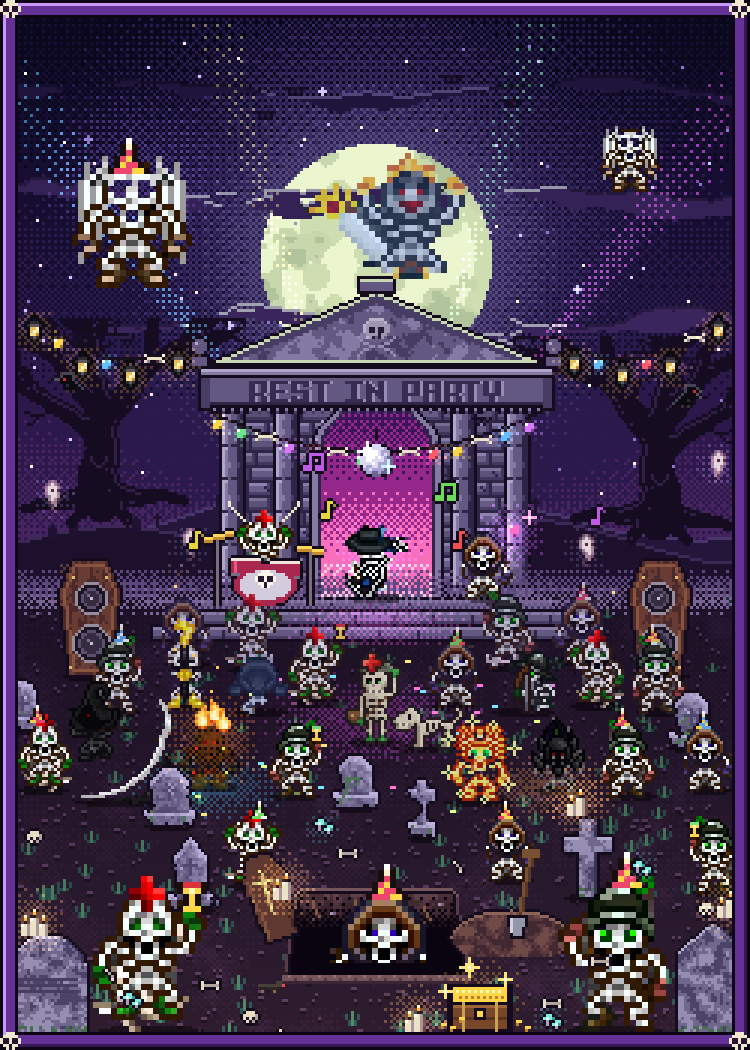
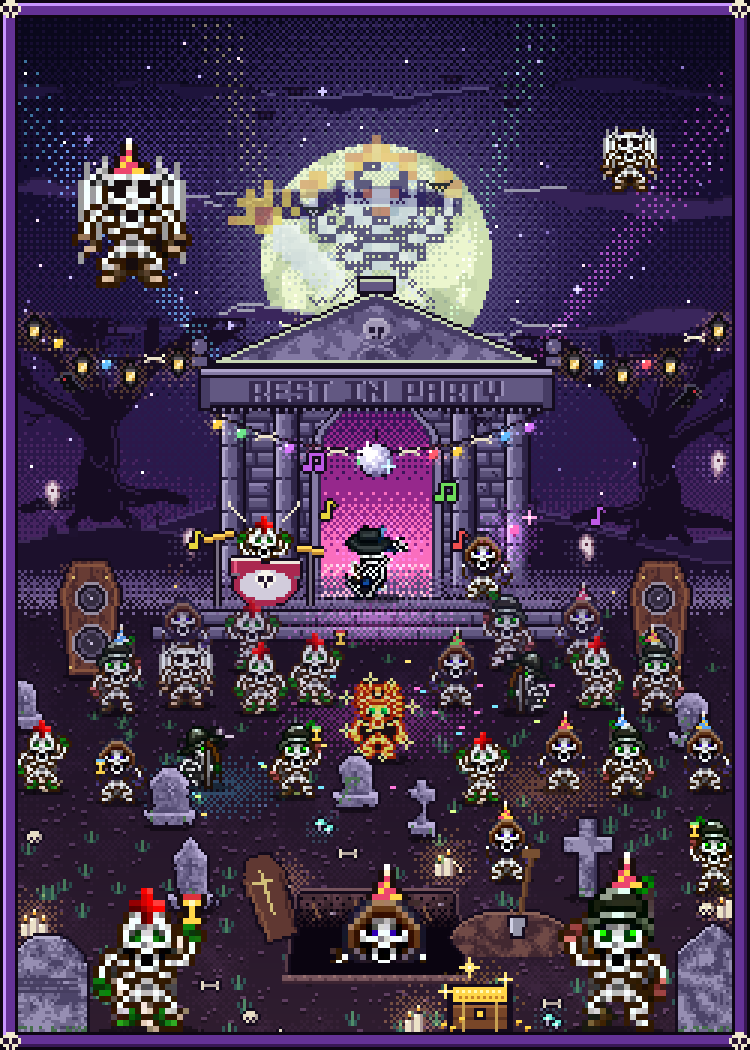
Rest in Party: nur echte Skelett-Karten, Skullmael als Geist mittig, Pixelfehler behoben
Claude-Session: https://claude.ai/code/session_01QU6zaF1CRhUbwqrjdbxehJ

diff --git a/scripts/sleeve-entwuerfe/s10_party.py b/scripts/sleeve-entwuerfe/s10_party.py
@@ -196,6 +196,44 @@ im = beam(im, 112, 150, -16, 3, 170, (90, 90, 30), 0.35)
 im = beam(im, 138, 150, 16, 3, 170, (40, 100, 50), 0.35)
 
 # =====================================================================
+# 3b) Skeleton King Skullmael als Geistererscheinung vor dem Mond (3x)
+# =====================================================================
+ksrc, kstr = SK.king_ghost_src()
+KS = 3
+ka = np.array(up(ksrc, KS)).astype(float)
+ks = np.kron(kstr, np.ones((KS, KS)))
+kh, kw = ks.shape
+# Gesichtsmitte: Schwerpunkt der obersten Kronen-/Schädelzeilen
+al = np.array(ksrc)[..., 3] > 0
+rows_ = np.where(al.any(1))[0]
+top_rows = al[rows_[0]:rows_[0] + 6]
+fx = np.where(top_rows.any(0))[0].mean()
+KX = int(round(CX - (fx + 0.5) * KS))
+KY = 108 - kh
+# Geisterfarbe: blass mondgrün, Gold/Rot der Krone gedämpft erhalten
+lum = ka[..., :3].mean(2, keepdims=True) / 255
+ghost = np.concatenate([120 + lum * 130, 150 + lum * 105, 190 + lum * 65], -1)
+warm = (ka[..., 0] - ka[..., 2] > 50)[..., None]
+ghost = np.where(warm, ka[..., :3] * 0.6 + np.array((255, 230, 150)) * 0.4, ghost)
+dark = (lum < 0.25)
+ghost = np.where(dark, np.array((46, 40, 100)), ghost)
+yk = np.mgrid[0:kh, 0:kw][0]
+fade = np.clip((kh - 2 - yk) / 16, 0, 1)
+alpha_t = np.where(ks > 0.2, 0.4 + 0.55 * ks, 0) * fade * (ka[..., 3] > 0)
+kmask = np.zeros((H, W), float)
+y0c, x0c = max(0, KY), max(0, KX)
+kmask[y0c:KY + kh, x0c:KX + kw] = alpha_t[y0c - KY:, x0c - KX:][:H - y0c, :W - x0c]
+gcol = np.zeros((H, W, 3))
+gcol[y0c:KY + kh, x0c:KX + kw] = ghost[y0c - KY:, x0c - KX:][:H - y0c, :W - x0c]
+# weicher Geister-Schein
+gl_ = np.array(Image.fromarray((np.clip(kmask, 0, 1) * 255).astype(np.uint8)).filter(ImageFilter.GaussianBlur(4))).astype(float) / 255
+im = blend_mask(im, dither_mask(None, np.clip(gl_ * 0.9 - kmask, 0, 0.5)) & (kmask == 0), (120, 150, 150), 0.35)
+m = dither_mask(None, kmask)
+a = np.array(im)
+a[m, :3] = (a[m, :3] * 0.25 + gcol[m] * 0.75).astype(np.uint8)
+im = Image.fromarray(a)
+
+# =====================================================================
 # 4) Gruft-Bühne
 # =====================================================================
 ST = dict(hl=(176, 166, 204), li=(132, 122, 164), mi=(98, 88, 130), da=(70, 60, 100), de=(46, 36, 70), ol=(20, 12, 30))
@@ -617,9 +655,6 @@ for (x, y, col, kind) in [(106, 166, (230, 214, 60), 0), (144, 160, (110, 220, 9
     rows = NOTE1 if kind == 0 else NOTE2
     nimg = rows_img(rows, {'A': col, 'B': tuple(int(v * 0.7) for v in col)})
     im.alpha_composite(nimg, (x, y))
-# König Skullmael (Karte) auf der Giebelspitze
-KING = up(SK.king(), 2)
-put(im, KING, CX + 4, PY - 3)
 im.save(os.path.join(TMP, 'p10_e.png'))
 print('stage ok')
 
@@ -699,8 +734,8 @@ for (x, y, spr) in row0:
     add(SK.tint_depth(spr, 0.34), x, y)
 row1 = [
     (38, 238, hat(ARup, BLUE, WHITE)),
-    (62, 236, SK.priest()),
-    (86, 238, SK.necromancer()),
+    (62, 236, WING.transpose(Image.FLIP_LEFT_RIGHT)),
+    (86, 238, HE.transpose(Image.FLIP_LEFT_RIGHT)),
     (106, 235, HEcup),
     (150, 236, hat(MA, GREEN, RED)),
     (174, 238, SK.archer_card().transpose(Image.FLIP_LEFT_RIGHT)),
@@ -709,49 +744,56 @@ row1 = [
 ]
 for (x, y, spr) in row1:
     add(SK.tint_depth(spr, 0.2), x, y)
-# Heiler-Sprite aus der Knochenmühle (1x) + Skeletthund
-hs = area('bonegrinder/healer')
-healer_fr = [hs.crop((i * 21, 0, i * 21 + 21, 32)) for i in range(3)]
-healer_fr = [f.crop(f.getbbox()) for f in healer_fr]
-add(SK.tint_depth(healer_fr[2], 0.12), 124, 248)
-dog = area('bonegrinder/dog').crop((0, 0, 25, 17)); dog = dog.crop(dog.getbbox())
-add(SK.tint_depth(dog, 0.12), 142, 250)
+# Treasure Skeleton in der Mitte der Tanzfläche
+TRE = SK.treasure()
+add(SK.tint_depth(TRE, 0.08), 126, 254)
 # Reihe 2
-BURN = SK.burning()
+MAcup = SK.trim(SK.cup(SK.canvas(MA.transpose(Image.FLIP_LEFT_RIGHT), 6, 3)[0], 4, 18, (120, 200, 255)))
 row2 = [
-    (14, 264, hat(HE, PINK, GOLDC, dx=3, dy=3).transpose(Image.FLIP_LEFT_RIGHT)),
-    (40, 268, SK.reaper()),
-    (70, 263, BURN),
+    (14, 264, HEup),
+    (40, 268, MAcup),
+    (68, 263, SK.archer_card()),
     (98, 266, ARcup),
-    (160, 268, SK.treasure()),
-    (186, 264, SK.death_knight()),
-    (210, 266, hat(AR.transpose(Image.FLIP_LEFT_RIGHT), PINK, GOLDC)),
+    (160, 268, HEboth.transpose(Image.FLIP_LEFT_RIGHT)),
+    (186, 264, hat(MA, PINK, GOLDC)),
+    (210, 266, hat(AR.transpose(Image.FLIP_LEFT_RIGHT), BLUE, WHITE)),
     (236, 264, hat(MA, BLUE, GOLDC).transpose(Image.FLIP_LEFT_RIGHT)),
 ]
 for (x, y, spr) in row2:
     add(SK.tint_depth(spr, 0.06), x, y)
 # Reihe 3 (vorne, zwischen den Stars)
-row3 = [(84, 296, hat(HEboth, GREEN, WHITE, dx=3, dy=3)), (170, 294, hat(MA, GOLDC, PINK).transpose(Image.FLIP_LEFT_RIGHT)), (238, 298, ARcup.transpose(Image.FLIP_LEFT_RIGHT))]
+row3 = [(170, 294, hat(MA, GOLDC, PINK).transpose(Image.FLIP_LEFT_RIGHT)), (238, 298, ARcup.transpose(Image.FLIP_LEFT_RIGHT))]
 for (x, y, spr) in row3:
     add(spr, x, y)
 # Grabsteine zwischen den Tänzern
 for (x, y, k) in [(8, 244, 0), (118, 270, 2), (230, 250, 3), (56, 276, 5), (140, 280, 1)]:
     add(STONES[k], x, y)
 
+# Boden-Kleinkram: Knochen, Schädel, Leuchtpilze, Ratte
+BONEC = {'1': (230, 220, 196), '2': (176, 162, 156), 'k': (40, 24, 46)}
+small_skull = rows_img([".111.", "11112", "1k1k2", ".1k2."], BONEC)
+small_bone = rows_img(["1....1", "122222", "1....1"], BONEC)
+small_bone2 = rows_img(["1..", ".2.", "..2", "..1"], BONEC)
+for (spr, x, y) in [(small_skull, 80, 336), (small_bone, 66, 326), (small_bone2, 92, 342), (small_bone, 180, 332), (small_skull, 232, 300),
+                    (small_bone2, 150, 286), (small_bone, 112, 282), (small_skull, 8, 276), (small_bone, 196, 318), (small_bone2, 34, 322)]:
+    im.alpha_composite(spr, (x, y))
+MUSH = {'c': (120, 240, 220), 'C': (60, 150, 160), 'w': (230, 255, 250), 's': (170, 160, 190)}
+mush = rows_img([".cc...", "cwcC..", ".s..cc", ".s.cwC", "....s."], MUSH)
+for (x, y) in [(40, 330), (104, 272), (180, 344 - 7)]:
+    im = add_light(im, x + 3, y + 3, 7, (10, 40, 40), 0.8)
+    im.alpha_composite(mush, (x, y))
+
+# Kerzen-Gruppen mit Lichtschein
+for (x, y, n) in [(8, 312, 3), (12, 346 - 36, 0), (92, 300, 2), (146, 292, 2), (240, 306, 3), (136, 344, 2)]:
+    if n == 0:
+        continue
+    im = add_light(im, x + n, y - 5, 12, (70, 50, 20), 1.0)
+    for k in range(n):
+        c = candle(3 + (k * 2) % 4)
+        put(im, c, x + k * 3, y)
 crowd.sort(key=lambda t: t[0])
 for (y, x, spr) in crowd:
     put(im, spr, x, y, shd=True)
-# Flammen-Sprite (Knochenmühle) auf dem brennenden Skelett + Funken
-fl = area('bonegrinder/flame')
-flames = [fl.crop((i * 5, 0, i * 5 + 5, 8)) for i in range(4)]
-bx_, by_ = 70, 263 - BURN.height
-im = add_light(im, 70, 246, 18, (70, 36, 0), 1.0)
-im.alpha_composite(up(flames[1], 1), (bx_ - 5, by_ - 5))
-im.alpha_composite(flames[2], (bx_ - 1, by_ - 7))
-im.alpha_composite(flames[3], (bx_ + 2, by_ - 4))
-d = ImageDraw.Draw(im)
-for (x, y) in [(60, 226), (72, 222), (64, 218), (70, 230), (58, 216)]:
-    d.point((x, y), fill=(255, 200, 80))
 im.save(os.path.join(TMP, 'p10_f.png'))
 print('crowd ok')
 
@@ -854,22 +896,6 @@ fg.sort(key=lambda t: t[0])
 for (y, x, spr) in fg:
     put(im, spr, x, y, shd=True)
 
-# Boden-Kleinkram: Knochen, Schädel, Leuchtpilze, Ratte
-BONEC = {'1': (230, 220, 196), '2': (176, 162, 156), 'k': (40, 24, 46)}
-small_skull = rows_img([".111.", "11112", "1k1k2", ".1k2."], BONEC)
-small_bone = rows_img(["1....1", "122222", "1....1"], BONEC)
-small_bone2 = rows_img(["1..", ".2.", "..2", "..1"], BONEC)
-for (spr, x, y) in [(small_skull, 80, 336), (small_bone, 66, 326), (small_bone2, 92, 342), (small_bone, 180, 332), (small_skull, 232, 300),
-                    (small_bone2, 150, 286), (small_bone, 112, 282), (small_skull, 8, 276), (small_bone, 196, 318), (small_bone2, 34, 322)]:
-    im.alpha_composite(spr, (x, y))
-MUSH = {'c': (120, 240, 220), 'C': (60, 150, 160), 'w': (230, 255, 250), 's': (170, 160, 190)}
-mush = rows_img([".cc...", "cwcC..", ".s..cc", ".s.cwC", "....s."], MUSH)
-for (x, y) in [(40, 330), (210, 286), (104, 272), (180, 344 - 7)]:
-    im = add_light(im, x + 3, y + 3, 7, (10, 40, 40), 0.8)
-    im.alpha_composite(mush, (x, y))
-rat = area('bonegrinder/rat').crop((0, 0, 9, 4)); rat = rat.crop(rat.getbbox())
-im.alpha_composite(rat, (86, 327))
-
 # Schatztruhe
 chest = Image.new('RGBA', (22, 16), (0, 0, 0, 0))
 cdd = ImageDraw.Draw(chest)
@@ -889,14 +915,6 @@ for (x, y) in [(147, 341), (150, 342), (172, 340), (175, 342), (153, 339)]:
 for (x, y, s_) in [(156, 322, 3), (168, 326, 2), (148, 330, 2)]:
     sparkle(d, x, y, s_, (255, 230, 120))
 
-# Kerzen-Gruppen mit Lichtschein
-for (x, y, n) in [(8, 312, 3), (12, 346 - 36, 0), (92, 300, 2), (190, 272, 2), (240, 306, 3), (136, 344, 2)]:
-    if n == 0:
-        continue
-    im = add_light(im, x + n, y - 5, 12, (70, 50, 20), 1.0)
-    for k in range(n):
-        c = candle(3 + (k * 2) % 4)
-        put(im, c, x + k * 3, y)
 im.save(os.path.join(TMP, 'p10_g.png'))
 print('fg ok')
 

diff --git a/scripts/sleeve-entwuerfe/skel_sprites.py b/scripts/sleeve-entwuerfe/skel_sprites.py
@@ -15,17 +15,30 @@ def minions():
             return _bg(a) | (redglow if i == 2 else False)
         s = keep_largest(cut_by(nv, box, bgf))
         s = s.crop(s.getbbox())
+        if i == 0:  # lose Stock-/Bodenpixel unten links entfernen
+            a = np.array(s); a[20:, :3, 3] = 0; a[23:, :9, 3] = 0; s = Image.fromarray(a); s = s.crop(s.getbbox())
         if i == 1:  # Hintergrundreste rechts oben entfernen
             a = np.array(s); a[:10, 16:, 3] = 0; s = Image.fromarray(a); s = s.crop(s.getbbox())
-        out.append(s)
+        out.append(clean(fill_dark(s)))
     return out
 
 
 def bard():
+    return _unpurple(_bard())
+
+
+def _bard():
     nb = native('Skeleton Bard')
     # Körper per Umriss-Barriere, Hut + Feder + Lautenhals ergänzt
-    return _fcut(nb, (26, 16, 52, 48), _notblack(12), add=[(35, 22, 41, 26), (32, 25, 45, 30), (31, 26, 32, 29), (41, 21, 43, 25), (45, 25, 51, 30)],
-                 rem=[(49, 26, 51, 27)])
+    return fill_dark(_fcut(nb, (26, 16, 52, 48), _notblack(12), add=[(35, 22, 41, 26), (32, 25, 45, 30), (31, 26, 32, 29), (41, 21, 43, 25), (45, 25, 51, 30)],
+                 rem=[(49, 26, 51, 27)], extra=None))
+
+
+def _unpurple(spr):
+    a = np.array(spr).astype(int)
+    purple = (a[..., 2] > a[..., 1] + 30) & (a[..., 0] > a[..., 1] + 10)
+    a[purple, 3] = 0
+    return clean(Image.fromarray(a.astype(np.uint8)))
 
 
 def king():
@@ -121,7 +134,7 @@ def _auto(nv, box, tol=40):
 
 
 def winged():
-    return _auto(native('Winged Skeleton'), (24, 6, 52, 36), 40)
+    return fill_dark(_auto(native('Winged Skeleton'), (24, 6, 52, 36), 40))
 
 
 def burning():
@@ -129,11 +142,11 @@ def burning():
 
 
 def priest():
-    return _auto(native('Skeleton Priest'), (28, 10, 48, 50), 50)
+    return fill_dark(_auto(native('Skeleton Priest'), (28, 10, 48, 50), 50))
 
 
 def treasure():
-    return _auto(native('Treasure Skeleton'), (22, 6, 54, 44), 50)
+    return fill_dark(_auto(native('Treasure Skeleton'), (22, 6, 54, 44), 50))
 
 
 def necromancer():
@@ -145,7 +158,7 @@ def death_knight():
 
 
 def archer_card():
-    return _fcut(native('Skeleton Archer'), (14, 6, 44, 36), _notblack(20), rem=[(33, 21, 44, 26)])
+    return clean(fill_dark(_fcut(native('Skeleton Archer'), (14, 6, 44, 36), _notblack(20), rem=[(33, 18, 44, 26), (36, 6, 44, 14)])))
 
 
 def reaper():
@@ -251,3 +264,37 @@ def tint_depth(spr, amt, col=(60, 40, 100)):
 def trim(spr):
     bb = spr.getbbox()
     return spr.crop(bb) if bb else spr
+
+
+def fill_dark(spr, col=(22, 12, 14, 255)):
+    """Eingeschlossene transparente Löcher (Augen, Rippenlücken) dunkel füllen."""
+    a = np.array(spr)
+    m = a[..., 3] > 0
+    holes = ndimage.binary_fill_holes(m) & ~m
+    a[holes] = col
+    return Image.fromarray(a)
+
+
+def clean(spr, min_size=3):
+    """Kleine abgetrennte Pixelinseln entfernen (4er-Nachbarschaft)."""
+    a = np.array(spr)
+    m = a[..., 3] > 0
+    lab, k = ndimage.label(m)
+    for i in range(1, k + 1):
+        if (lab == i).sum() < min_size:
+            a[lab == i, 3] = 0
+    out = Image.fromarray(a)
+    return out.crop(out.getbbox())
+
+
+def king_ghost_src():
+    """König Skullmael mit 'Stärke' je Pixel (für geisterhafte Darstellung)."""
+    nk = native('Skeleton King Skullmael')
+    k = _fcut(nk, (18, 2, 52, 25), _grey(64, 135, 70))
+    a = np.array(k).astype(int)
+    green = (a[..., 1] > a[..., 0] + 30); green[:-5] = False; a[green, 3] = 0
+    L = a[..., :3].mean(2); sat = a[..., :3].max(2) - a[..., :3].min(2)
+    strength = np.clip((np.abs(L - 92) - 14) / 30, 0, 1)
+    strength = np.maximum(strength, (sat > 60).astype(float))
+    strength[a[..., 3] == 0] = 0
+    return Image.fromarray(a.astype(np.uint8)), strength
